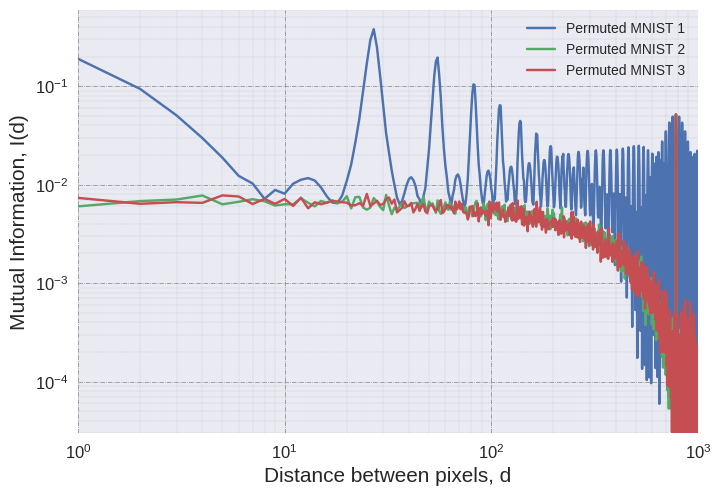
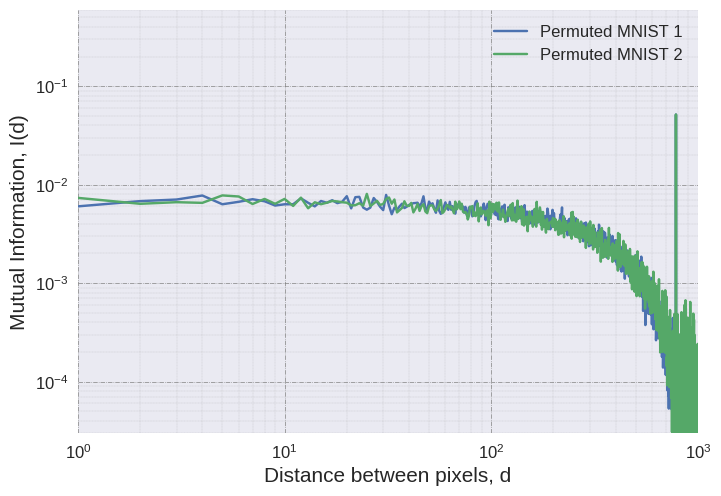
Up

diff --git a/paper_related/mnist/plot_bench.py b/paper_related/mnist/plot_bench.py
@@ -4,7 +4,7 @@ import seaborn as sns
 import matplotlib.pyplot as plt
 import numpy as np
 
-filenames = ["mnist_un","mnist","mnist_per_1","mnist_per_2"]
+filenames = ["mnist_un","mnist_per_1","mnist_per_2"]
 all_mi = []
 
 for filename in filenames:
@@ -43,10 +43,9 @@ for filename in filenames:
 
 # red dashes, blue squares and green triangles
 with plt.style.context(('seaborn')):
-    #plt.loglog(np.arange(len(all_mi[0])), all_mi[0], label='Standard MNIST')
-    plt.loglog(np.arange(len(all_mi[1])), all_mi[1], label='Permuted MNIST 1')
-    plt.loglog(np.arange(len(all_mi[2])), all_mi[2], label='Permuted MNIST 2')
-    plt.loglog(np.arange(len(all_mi[3])), all_mi[3], label='Permuted MNIST 3')
+    plt.loglog(np.arange(len(all_mi[0])), all_mi[0], label='Standard MNIST')
+    #plt.loglog(np.arange(len(all_mi[1])), all_mi[1], label='Permuted MNIST 1')
+    #plt.loglog(np.arange(len(all_mi[2])), all_mi[2], label='Permuted MNIST 2')
 
     plt.tick_params(labelsize='large', width=5)
     plt.grid(True)
@@ -59,6 +58,6 @@ with plt.style.context(('seaborn')):
     print(ax.get_ylim())
     ax.set_xlabel('Distance between pixels, d', fontsize=15)
     ax.set_ylabel('Mutual Information, I(d)', fontsize=15)
-    lgd = ax.legend(loc='upper right', shadow=True, fancybox=True, ncol=1, numpoints=1)
-    plt.savefig('mnist_permuted', bbox_extra_artists=(lgd,), bbox_inches='tight')
+    lgd = ax.legend(loc='upper right', shadow=True, fancybox=True, ncol=1, numpoints=1, prop={'size':12})
+    plt.savefig('mnist_unpermuted', bbox_extra_artists=(lgd,), bbox_inches='tight')
     plt.show()
